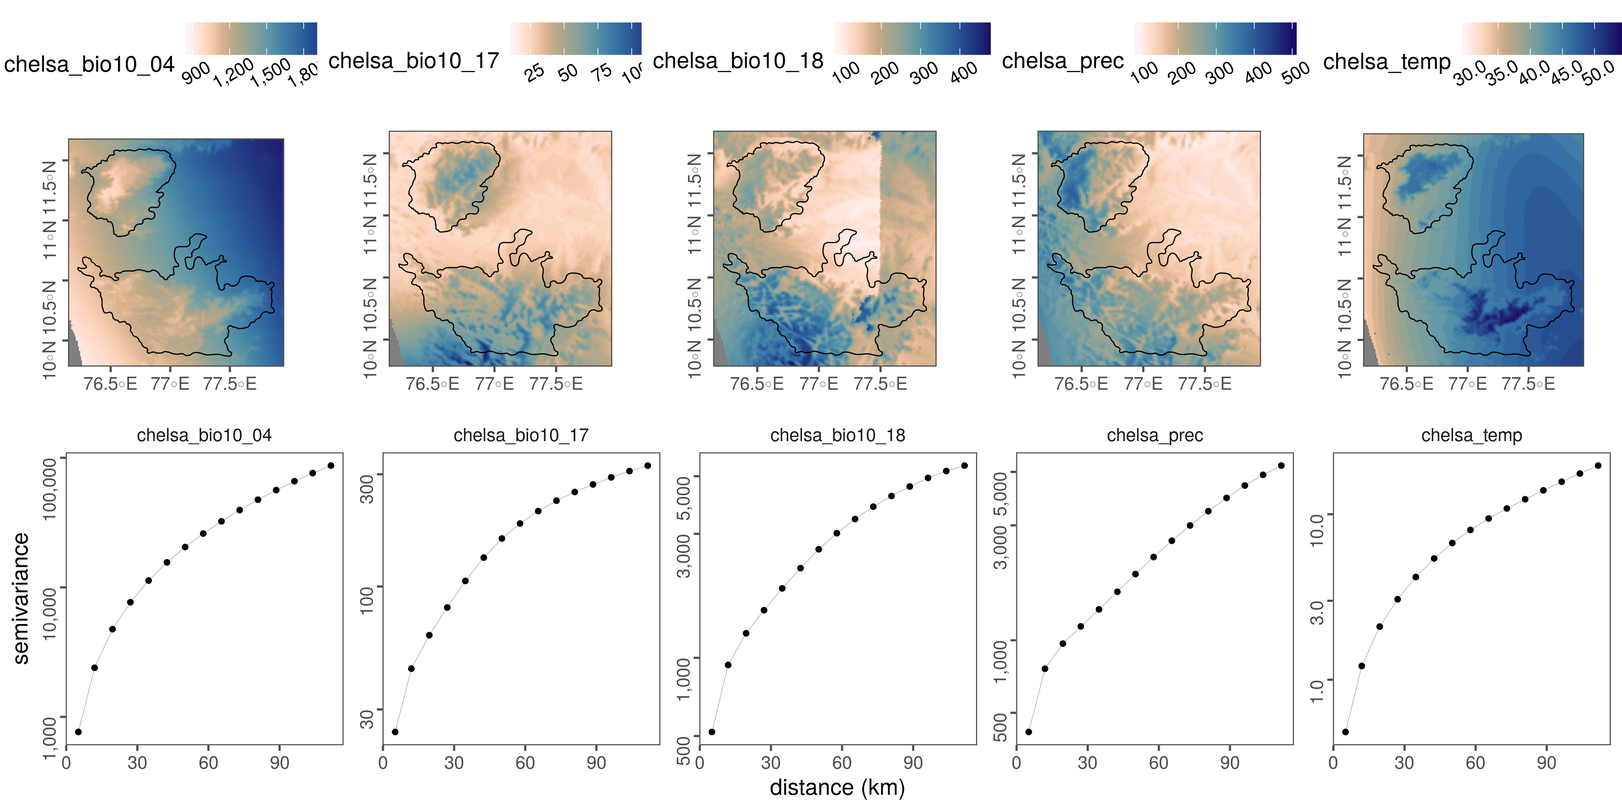
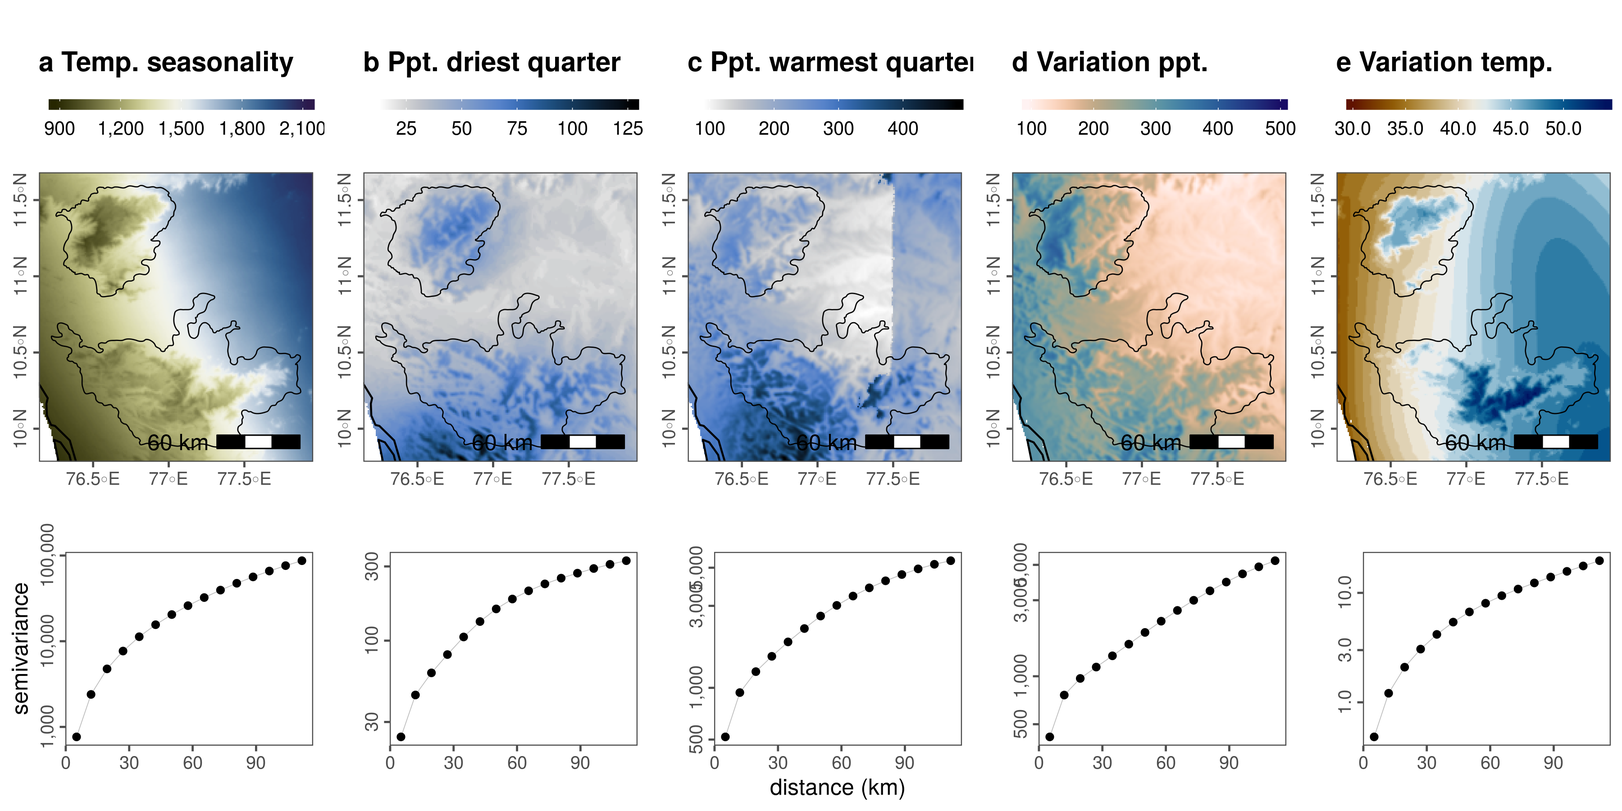
latest bookdown

diff --git a/docs/supplementary-material.html b/docs/supplementary-material.html
@@ -894,21 +894,22 @@ code span.wa { color: #60a0b0; font-weight: bold; font-style: italic; } /* Warni
 <a class="sourceLine" id="cb87-13" title="13"><span class="kw">library</span>(scico)</a>
 <a class="sourceLine" id="cb87-14" title="14"><span class="kw">library</span>(gridExtra)</a>
 <a class="sourceLine" id="cb87-15" title="15"><span class="kw">library</span>(cowplot)</a>
-<a class="sourceLine" id="cb87-16" title="16"></a>
-<a class="sourceLine" id="cb87-17" title="17"><span class="co">#&#39;make custom functiont to convert matrix to df</span></a>
-<a class="sourceLine" id="cb87-18" title="18">raster_to_df &lt;-<span class="st"> </span><span class="cf">function</span>(inp) {</a>
-<a class="sourceLine" id="cb87-19" title="19">  </a>
-<a class="sourceLine" id="cb87-20" title="20">  <span class="co"># assert is a raster obj</span></a>
-<a class="sourceLine" id="cb87-21" title="21">  assertthat<span class="op">::</span><span class="kw">assert_that</span>(<span class="st">&quot;RasterLayer&quot;</span> <span class="op">%in%</span><span class="st"> </span><span class="kw">class</span>(inp),</a>
-<a class="sourceLine" id="cb87-22" title="22">                          <span class="dt">msg =</span> <span class="st">&quot;input is not a raster&quot;</span>)</a>
-<a class="sourceLine" id="cb87-23" title="23">  </a>
-<a class="sourceLine" id="cb87-24" title="24">  coords &lt;-<span class="st"> </span><span class="kw">coordinates</span>(inp)</a>
-<a class="sourceLine" id="cb87-25" title="25">  vals &lt;-<span class="st"> </span><span class="kw">getValues</span>(inp)</a>
-<a class="sourceLine" id="cb87-26" title="26">  </a>
-<a class="sourceLine" id="cb87-27" title="27">  data &lt;-<span class="st"> </span><span class="kw">tibble</span>(<span class="dt">x =</span> coords[,<span class="dv">1</span>], <span class="dt">y =</span> coords[,<span class="dv">2</span>], <span class="dt">value =</span> vals)</a>
-<a class="sourceLine" id="cb87-28" title="28">  </a>
-<a class="sourceLine" id="cb87-29" title="29">  <span class="kw">return</span>(data)</a>
-<a class="sourceLine" id="cb87-30" title="30">}</a></code></pre></div>
+<a class="sourceLine" id="cb87-16" title="16"><span class="kw">library</span>(ggspatial)</a>
+<a class="sourceLine" id="cb87-17" title="17"></a>
+<a class="sourceLine" id="cb87-18" title="18"><span class="co">#&#39;make custom functiont to convert matrix to df</span></a>
+<a class="sourceLine" id="cb87-19" title="19">raster_to_df &lt;-<span class="st"> </span><span class="cf">function</span>(inp) {</a>
+<a class="sourceLine" id="cb87-20" title="20">  </a>
+<a class="sourceLine" id="cb87-21" title="21">  <span class="co"># assert is a raster obj</span></a>
+<a class="sourceLine" id="cb87-22" title="22">  assertthat<span class="op">::</span><span class="kw">assert_that</span>(<span class="st">&quot;RasterLayer&quot;</span> <span class="op">%in%</span><span class="st"> </span><span class="kw">class</span>(inp),</a>
+<a class="sourceLine" id="cb87-23" title="23">                          <span class="dt">msg =</span> <span class="st">&quot;input is not a raster&quot;</span>)</a>
+<a class="sourceLine" id="cb87-24" title="24">  </a>
+<a class="sourceLine" id="cb87-25" title="25">  coords &lt;-<span class="st"> </span><span class="kw">coordinates</span>(inp)</a>
+<a class="sourceLine" id="cb87-26" title="26">  vals &lt;-<span class="st"> </span><span class="kw">getValues</span>(inp)</a>
+<a class="sourceLine" id="cb87-27" title="27">  </a>
+<a class="sourceLine" id="cb87-28" title="28">  data &lt;-<span class="st"> </span><span class="kw">tibble</span>(<span class="dt">x =</span> coords[,<span class="dv">1</span>], <span class="dt">y =</span> coords[,<span class="dv">2</span>], <span class="dt">value =</span> vals)</a>
+<a class="sourceLine" id="cb87-29" title="29">  </a>
+<a class="sourceLine" id="cb87-30" title="30">  <span class="kw">return</span>(data)</a>
+<a class="sourceLine" id="cb87-31" title="31">}</a></code></pre></div>
 <div class="sourceCode" id="cb88"><pre class="sourceCode r"><code class="sourceCode r"><a class="sourceLine" id="cb88-1" title="1"><span class="co"># list landscape covariate stacks</span></a>
 <a class="sourceLine" id="cb88-2" title="2">landscape_files &lt;-<span class="st"> &quot;data/spatial/landscape_resamp01km.tif&quot;</span></a>
 <a class="sourceLine" id="cb88-3" title="3">landscape_data &lt;-<span class="st"> </span><span class="kw">stack</span>(landscape_files)</a>
@@ -941,8 +942,7 @@ code span.wa { color: #60a0b0; font-weight: bold; font-style: italic; } /* Warni
 <a class="sourceLine" id="cb89-13" title="13">  df <span class="op">%&gt;%</span><span class="st"> </span><span class="kw">select</span>(dist, gamma)</a>
 <a class="sourceLine" id="cb89-14" title="14">})</a>
 <a class="sourceLine" id="cb89-15" title="15">vgrams &lt;-<span class="st"> </span><span class="kw">tibble</span>(<span class="dt">variable =</span> chelsa_names,</a>
-<a class="sourceLine" id="cb89-16" title="16">                 <span class="dt">data =</span> vgrams)</a>
-<a class="sourceLine" id="cb89-17" title="17">vgrams &lt;-<span class="st"> </span><span class="kw">unnest</span>(vgrams, <span class="dt">col =</span> <span class="st">&quot;data&quot;</span>)</a></code></pre></div>
+<a class="sourceLine" id="cb89-16" title="16">                 <span class="dt">data =</span> vgrams)</a></code></pre></div>
 <div class="sourceCode" id="cb90"><pre class="sourceCode r"><code class="sourceCode r"><a class="sourceLine" id="cb90-1" title="1">wg &lt;-<span class="st"> </span><span class="kw">st_read</span>(<span class="st">&quot;data/spatial/hillsShapefile/Nil_Ana_Pal.shp&quot;</span>) <span class="op">%&gt;%</span><span class="st"> </span></a>
 <a class="sourceLine" id="cb90-2" title="2"><span class="st">  </span><span class="kw">st_transform</span>(<span class="dv">32643</span>)</a>
 <a class="sourceLine" id="cb90-3" title="3">bbox &lt;-<span class="st"> </span><span class="kw">st_bbox</span>(wg)</a>
@@ -959,42 +959,63 @@ code span.wa { color: #60a0b0; font-weight: bold; font-style: italic; } /* Warni
 <div id="plot-chelsa-data-and-variograms" class="section level3">
 <h3><span class="header-section-number">7.7.3</span> Plot CHELSA data and variograms</h3>
 <div class="sourceCode" id="cb91"><pre class="sourceCode r"><code class="sourceCode r"><a class="sourceLine" id="cb91-1" title="1"><span class="co"># make ggplot of variograms</span></a>
-<a class="sourceLine" id="cb91-2" title="2">fig_vgrams &lt;-<span class="st"> </span><span class="kw">ggplot</span>(vgrams)<span class="op">+</span></a>
-<a class="sourceLine" id="cb91-3" title="3"><span class="st">  </span><span class="kw">geom_line</span>(<span class="kw">aes</span>(<span class="dt">x =</span> dist<span class="op">/</span><span class="dv">1000</span>, <span class="dt">y =</span> gamma), <span class="dt">size =</span> <span class="fl">0.2</span>, <span class="dt">col =</span> <span class="st">&quot;grey&quot;</span>)<span class="op">+</span></a>
-<a class="sourceLine" id="cb91-4" title="4"><span class="st">  </span><span class="kw">geom_point</span>(<span class="kw">aes</span>(<span class="dt">x =</span> dist<span class="op">/</span><span class="dv">1000</span>, <span class="dt">y =</span> gamma), <span class="dt">col =</span> <span class="st">&quot;black&quot;</span>, <span class="dt">size =</span> <span class="dv">1</span>)<span class="op">+</span></a>
-<a class="sourceLine" id="cb91-5" title="5"><span class="st">  </span><span class="kw">facet_wrap</span>(<span class="op">~</span>variable, <span class="dt">nrow =</span> <span class="dv">1</span>, <span class="dt">scales =</span> <span class="st">&quot;free_y&quot;</span>)<span class="op">+</span></a>
-<a class="sourceLine" id="cb91-6" title="6"><span class="st">  </span><span class="kw">scale_x_continuous</span>(<span class="dt">labels =</span> comma)<span class="op">+</span></a>
-<a class="sourceLine" id="cb91-7" title="7"><span class="st">  </span><span class="kw">scale_y_log10</span>(<span class="dt">labels =</span> comma)<span class="op">+</span></a>
-<a class="sourceLine" id="cb91-8" title="8"><span class="st">  </span><span class="kw">labs</span>(<span class="dt">x =</span> <span class="st">&quot;distance (km)&quot;</span>, <span class="dt">y =</span> <span class="st">&quot;semivariance&quot;</span>)<span class="op">+</span></a>
-<a class="sourceLine" id="cb91-9" title="9"><span class="st">  </span><span class="kw">theme_few</span>()<span class="op">+</span></a>
-<a class="sourceLine" id="cb91-10" title="10"><span class="st">  </span><span class="kw">theme</span>(<span class="dt">axis.text.y =</span> <span class="kw">element_text</span>(<span class="dt">angle =</span> <span class="dv">90</span>, <span class="dt">vjust =</span> <span class="dv">0</span>))</a>
-<a class="sourceLine" id="cb91-11" title="11">fig_vgrams &lt;-<span class="st"> </span><span class="kw">as_grob</span>(fig_vgrams)</a>
-<a class="sourceLine" id="cb91-12" title="12"></a>
-<a class="sourceLine" id="cb91-13" title="13"><span class="co"># make ggplot of chelsa data</span></a>
-<a class="sourceLine" id="cb91-14" title="14">chelsa &lt;-<span class="st"> </span><span class="kw">as.list</span>(landscape_data[[chelsa_names]]) <span class="op">%&gt;%</span><span class="st"> </span></a>
-<a class="sourceLine" id="cb91-15" title="15"><span class="st">  </span>purrr<span class="op">::</span><span class="kw">map</span>(st_as_stars)</a>
-<a class="sourceLine" id="cb91-16" title="16">fig_list_chelsa &lt;-<span class="st"> </span></a>
-<a class="sourceLine" id="cb91-17" title="17"><span class="st">  </span>purrr<span class="op">::</span><span class="kw">map</span>(chelsa, <span class="cf">function</span>(df){</a>
-<a class="sourceLine" id="cb91-18" title="18">    <span class="kw">ggplot</span>()<span class="op">+</span></a>
-<a class="sourceLine" id="cb91-19" title="19"><span class="st">      </span><span class="kw">geom_sf</span>(<span class="dt">data =</span> land, <span class="dt">fill =</span> <span class="st">&quot;grey90&quot;</span>, <span class="dt">colour =</span> <span class="ot">NA</span>)<span class="op">+</span></a>
-<a class="sourceLine" id="cb91-20" title="20"><span class="st">      </span><span class="kw">geom_stars</span>(<span class="dt">data =</span> df)<span class="op">+</span></a>
-<a class="sourceLine" id="cb91-21" title="21"><span class="st">      </span><span class="kw">geom_sf</span>(<span class="dt">data =</span> wg, <span class="dt">fill =</span> <span class="ot">NA</span>, <span class="dt">colour =</span> <span class="st">&quot;black&quot;</span>, <span class="dt">size =</span> <span class="fl">0.3</span>)<span class="op">+</span></a>
-<a class="sourceLine" id="cb91-22" title="22"><span class="st">      </span><span class="kw">scale_fill_scico</span>(<span class="dt">palette =</span> <span class="st">&quot;lapaz&quot;</span>, <span class="dt">direction =</span> <span class="dv">-1</span>, </a>
-<a class="sourceLine" id="cb91-23" title="23">                       <span class="dt">label =</span> comma)<span class="op">+</span></a>
-<a class="sourceLine" id="cb91-24" title="24"><span class="st">      </span><span class="kw">coord_sf</span>(<span class="dt">xlim =</span> bbox[<span class="kw">c</span>(<span class="st">&quot;xmin&quot;</span>, <span class="st">&quot;xmax&quot;</span>)], </a>
-<a class="sourceLine" id="cb91-25" title="25">               <span class="dt">ylim =</span> bbox[<span class="kw">c</span>(<span class="st">&quot;ymin&quot;</span>, <span class="st">&quot;ymax&quot;</span>)])<span class="op">+</span></a>
-<a class="sourceLine" id="cb91-26" title="26"><span class="st">      </span><span class="kw">theme_few</span>()<span class="op">+</span></a>
-<a class="sourceLine" id="cb91-27" title="27"><span class="st">      </span><span class="kw">theme</span>(<span class="dt">legend.position =</span> <span class="st">&quot;top&quot;</span>,</a>
-<a class="sourceLine" id="cb91-28" title="28">            <span class="dt">legend.text =</span> <span class="kw">element_text</span>(<span class="dt">angle =</span> <span class="dv">30</span>),</a>
-<a class="sourceLine" id="cb91-29" title="29">            <span class="dt">axis.title =</span> <span class="kw">element_blank</span>(),</a>
-<a class="sourceLine" id="cb91-30" title="30">            <span class="dt">axis.text.y =</span> <span class="kw">element_text</span>(<span class="dt">angle =</span> <span class="dv">90</span>),</a>
-<a class="sourceLine" id="cb91-31" title="31">            <span class="dt">panel.background =</span> <span class="kw">element_rect</span>(<span class="dt">fill =</span> <span class="st">&quot;lightblue&quot;</span>))<span class="op">+</span></a>
-<a class="sourceLine" id="cb91-32" title="32"><span class="st">      </span><span class="kw">labs</span>(<span class="dt">x=</span><span class="ot">NULL</span>, <span class="dt">y=</span><span class="ot">NULL</span>)</a>
-<a class="sourceLine" id="cb91-33" title="33">  })</a>
-<a class="sourceLine" id="cb91-34" title="34">fig_list_chelsa &lt;-<span class="st"> </span>purrr<span class="op">::</span><span class="kw">map</span>(fig_list_chelsa, as_grob)</a></code></pre></div>
-<div class="sourceCode" id="cb92"><pre class="sourceCode r"><code class="sourceCode r"><a class="sourceLine" id="cb92-1" title="1">fig_list_chelsa[[<span class="dv">6</span>]] &lt;-<span class="st"> </span>fig_vgrams</a>
-<a class="sourceLine" id="cb92-2" title="2">lmatrix &lt;-<span class="st"> </span><span class="kw">matrix</span>(<span class="kw">c</span>(<span class="kw">c</span>(<span class="dv">1</span>,<span class="dv">2</span>,<span class="dv">3</span>,<span class="dv">4</span>,<span class="dv">5</span>), <span class="kw">c</span>(<span class="dv">6</span>,<span class="dv">6</span>,<span class="dv">6</span>,<span class="dv">6</span>,<span class="dv">6</span>)), <span class="dt">nrow =</span> <span class="dv">2</span>, <span class="dt">byrow =</span> T)</a>
-<a class="sourceLine" id="cb92-3" title="3">plot_grid &lt;-<span class="st"> </span><span class="kw">grid.arrange</span>(<span class="dt">grobs =</span> fig_list_chelsa, <span class="dt">nrow =</span> <span class="dv">2</span>, <span class="dt">layout_matrix =</span> lmatrix)</a>
+<a class="sourceLine" id="cb91-2" title="2">yaxis &lt;-<span class="st"> </span><span class="kw">c</span>(<span class="st">&quot;semivariance&quot;</span>, <span class="kw">rep</span>(<span class="st">&quot;&quot;</span>, <span class="dv">4</span>))</a>
+<a class="sourceLine" id="cb91-3" title="3">xaxis &lt;-<span class="st"> </span><span class="kw">c</span>(<span class="st">&quot;&quot;</span>, <span class="st">&quot;&quot;</span>, <span class="st">&quot;distance (km)&quot;</span>, <span class="st">&quot;&quot;</span>, <span class="st">&quot;&quot;</span>)</a>
+<a class="sourceLine" id="cb91-4" title="4">fig_vgrams &lt;-<span class="st"> </span>purrr<span class="op">::</span><span class="kw">pmap</span>(<span class="kw">list</span>(vgrams<span class="op">$</span>data, yaxis, xaxis), <span class="cf">function</span>(df, ya, xa){</a>
+<a class="sourceLine" id="cb91-5" title="5">  </a>
+<a class="sourceLine" id="cb91-6" title="6">  <span class="kw">ggplot</span>(df)<span class="op">+</span></a>
+<a class="sourceLine" id="cb91-7" title="7"><span class="st">    </span><span class="kw">geom_line</span>(<span class="kw">aes</span>(<span class="dt">x =</span> dist<span class="op">/</span><span class="dv">1000</span>, <span class="dt">y =</span> gamma), <span class="dt">size =</span> <span class="fl">0.2</span>, <span class="dt">col =</span> <span class="st">&quot;grey&quot;</span>)<span class="op">+</span></a>
+<a class="sourceLine" id="cb91-8" title="8"><span class="st">    </span><span class="kw">geom_point</span>(<span class="kw">aes</span>(<span class="dt">x =</span> dist<span class="op">/</span><span class="dv">1000</span>, <span class="dt">y =</span> gamma), <span class="dt">col =</span> <span class="st">&quot;black&quot;</span>)<span class="op">+</span></a>
+<a class="sourceLine" id="cb91-9" title="9"><span class="st">    </span><span class="kw">scale_x_continuous</span>(<span class="dt">labels =</span> comma)<span class="op">+</span></a>
+<a class="sourceLine" id="cb91-10" title="10"><span class="st">    </span><span class="kw">scale_y_log10</span>(<span class="dt">labels =</span> comma)<span class="op">+</span></a>
+<a class="sourceLine" id="cb91-11" title="11"><span class="st">    </span><span class="kw">labs</span>(<span class="dt">x =</span> xa, <span class="dt">y =</span> ya)<span class="op">+</span></a>
+<a class="sourceLine" id="cb91-12" title="12"><span class="st">    </span><span class="kw">theme_few</span>()<span class="op">+</span></a>
+<a class="sourceLine" id="cb91-13" title="13"><span class="st">    </span><span class="kw">theme</span>(<span class="dt">axis.text.y =</span> <span class="kw">element_text</span>(<span class="dt">angle =</span> <span class="dv">90</span>, <span class="dt">hjust =</span> <span class="fl">0.5</span>),</a>
+<a class="sourceLine" id="cb91-14" title="14">          <span class="dt">strip.text =</span> <span class="kw">element_blank</span>())</a>
+<a class="sourceLine" id="cb91-15" title="15">  </a>
+<a class="sourceLine" id="cb91-16" title="16">})</a>
+<a class="sourceLine" id="cb91-17" title="17">fig_vgrams &lt;-<span class="st"> </span>purrr<span class="op">::</span><span class="kw">map</span>(fig_vgrams, as_grob)</a>
+<a class="sourceLine" id="cb91-18" title="18"></a>
+<a class="sourceLine" id="cb91-19" title="19"><span class="co"># make ggplot of chelsa data</span></a>
+<a class="sourceLine" id="cb91-20" title="20">chelsa &lt;-<span class="st"> </span><span class="kw">as.list</span>(landscape_data[[chelsa_names]]) <span class="op">%&gt;%</span><span class="st"> </span></a>
+<a class="sourceLine" id="cb91-21" title="21"><span class="st">  </span>purrr<span class="op">::</span><span class="kw">map</span>(st_as_stars)</a>
+<a class="sourceLine" id="cb91-22" title="22"></a>
+<a class="sourceLine" id="cb91-23" title="23"><span class="co"># colour palettes</span></a>
+<a class="sourceLine" id="cb91-24" title="24">pal &lt;-<span class="st"> </span><span class="kw">c</span>(<span class="st">&quot;broc&quot;</span>, <span class="st">&quot;oslo&quot;</span>, <span class="st">&quot;oslo&quot;</span>, <span class="st">&quot;lapaz&quot;</span>, <span class="st">&quot;vik&quot;</span>)</a>
+<a class="sourceLine" id="cb91-25" title="25">title &lt;-<span class="st"> </span><span class="kw">c</span>(<span class="st">&quot;a Temp. seasonality&quot;</span>,</a>
+<a class="sourceLine" id="cb91-26" title="26">           <span class="st">&quot;b Ppt. driest quarter&quot;</span>,</a>
+<a class="sourceLine" id="cb91-27" title="27">           <span class="st">&quot;c Ppt. warmest quarter&quot;</span>,</a>
+<a class="sourceLine" id="cb91-28" title="28">           <span class="st">&quot;d Variation ppt.&quot;</span>,</a>
+<a class="sourceLine" id="cb91-29" title="29">           <span class="st">&quot;e Variation temp.&quot;</span>)</a>
+<a class="sourceLine" id="cb91-30" title="30">fig_list_chelsa &lt;-<span class="st"> </span></a>
+<a class="sourceLine" id="cb91-31" title="31"><span class="st">  </span>purrr<span class="op">::</span><span class="kw">pmap</span>(<span class="kw">list</span>(chelsa, pal, title), </a>
+<a class="sourceLine" id="cb91-32" title="32">              <span class="cf">function</span>(df, pal, t){</a>
+<a class="sourceLine" id="cb91-33" title="33">                <span class="kw">ggplot</span>()<span class="op">+</span></a>
+<a class="sourceLine" id="cb91-34" title="34"><span class="st">                  </span><span class="kw">geom_stars</span>(<span class="dt">data =</span> df)<span class="op">+</span></a>
+<a class="sourceLine" id="cb91-35" title="35"><span class="st">                  </span><span class="kw">geom_sf</span>(<span class="dt">data =</span> land, <span class="dt">fill =</span> <span class="ot">NA</span>, <span class="dt">colour =</span> <span class="st">&quot;black&quot;</span>)<span class="op">+</span></a>
+<a class="sourceLine" id="cb91-36" title="36"><span class="st">                  </span><span class="kw">geom_sf</span>(<span class="dt">data =</span> wg, <span class="dt">fill =</span> <span class="ot">NA</span>, <span class="dt">colour =</span> <span class="st">&quot;black&quot;</span>, <span class="dt">size =</span> <span class="fl">0.3</span>)<span class="op">+</span></a>
+<a class="sourceLine" id="cb91-37" title="37"><span class="st">                  </span><span class="kw">scale_fill_scico</span>(<span class="dt">palette =</span> pal, <span class="dt">direction =</span> <span class="dv">-1</span>, </a>
+<a class="sourceLine" id="cb91-38" title="38">                                   <span class="dt">label =</span> comma, <span class="dt">na.value =</span> <span class="ot">NA</span>)<span class="op">+</span></a>
+<a class="sourceLine" id="cb91-39" title="39"><span class="st">                  </span><span class="kw">coord_sf</span>(<span class="dt">xlim =</span> bbox[<span class="kw">c</span>(<span class="st">&quot;xmin&quot;</span>, <span class="st">&quot;xmax&quot;</span>)], </a>
+<a class="sourceLine" id="cb91-40" title="40">                           <span class="dt">ylim =</span> bbox[<span class="kw">c</span>(<span class="st">&quot;ymin&quot;</span>, <span class="st">&quot;ymax&quot;</span>)])<span class="op">+</span></a>
+<a class="sourceLine" id="cb91-41" title="41"><span class="st">                  </span><span class="kw">annotation_scale</span>(<span class="dt">location =</span> <span class="st">&quot;br&quot;</span>, <span class="dt">width_hint =</span> <span class="fl">0.4</span>, <span class="dt">text_cex =</span> <span class="dv">1</span>) <span class="op">+</span></a>
+<a class="sourceLine" id="cb91-42" title="42"><span class="st">                  </span></a>
+<a class="sourceLine" id="cb91-43" title="43"><span class="st">                  </span><span class="kw">theme_few</span>()<span class="op">+</span></a>
+<a class="sourceLine" id="cb91-44" title="44"><span class="st">                  </span><span class="kw">theme</span>(<span class="dt">legend.position =</span> <span class="st">&quot;top&quot;</span>,</a>
+<a class="sourceLine" id="cb91-45" title="45">                        <span class="dt">title =</span> <span class="kw">element_text</span>(<span class="dt">face =</span> <span class="st">&quot;bold&quot;</span>),</a>
+<a class="sourceLine" id="cb91-46" title="46">                        <span class="dt">legend.key.height =</span> <span class="kw">unit</span>(<span class="fl">0.2</span>, <span class="st">&quot;cm&quot;</span>),</a>
+<a class="sourceLine" id="cb91-47" title="47">                        <span class="dt">legend.key.width =</span> <span class="kw">unit</span>(<span class="dv">1</span>, <span class="st">&quot;cm&quot;</span>),</a>
+<a class="sourceLine" id="cb91-48" title="48">                        <span class="dt">legend.text =</span> <span class="kw">element_text</span>(<span class="dt">size =</span> <span class="dv">10</span>),</a>
+<a class="sourceLine" id="cb91-49" title="49">                        <span class="dt">axis.title =</span> <span class="kw">element_blank</span>(),</a>
+<a class="sourceLine" id="cb91-50" title="50">                        <span class="dt">axis.text.y =</span> <span class="kw">element_text</span>(<span class="dt">angle =</span> <span class="dv">90</span>, <span class="dt">hjust =</span> <span class="fl">0.5</span>),</a>
+<a class="sourceLine" id="cb91-51" title="51">                        <span class="co"># panel.background = element_rect(fill = &quot;lightblue&quot;),</span></a>
+<a class="sourceLine" id="cb91-52" title="52">                        <span class="dt">legend.title =</span> <span class="kw">element_blank</span>())<span class="op">+</span></a>
+<a class="sourceLine" id="cb91-53" title="53"><span class="st">                  </span><span class="kw">labs</span>(<span class="dt">x=</span><span class="ot">NULL</span>, <span class="dt">y=</span><span class="ot">NULL</span>, <span class="dt">title =</span> t)</a>
+<a class="sourceLine" id="cb91-54" title="54">              })</a>
+<a class="sourceLine" id="cb91-55" title="55">fig_list_chelsa &lt;-<span class="st"> </span>purrr<span class="op">::</span><span class="kw">map</span>(fig_list_chelsa, as_grob)</a></code></pre></div>
+<div class="sourceCode" id="cb92"><pre class="sourceCode r"><code class="sourceCode r"><a class="sourceLine" id="cb92-1" title="1">fig_list_chelsa &lt;-<span class="st"> </span><span class="kw">append</span>(fig_list_chelsa, fig_vgrams)</a>
+<a class="sourceLine" id="cb92-2" title="2">lmatrix &lt;-<span class="st"> </span><span class="kw">matrix</span>(<span class="kw">c</span>(<span class="kw">c</span>(<span class="dv">1</span>,<span class="dv">2</span>,<span class="dv">3</span>,<span class="dv">4</span>,<span class="dv">5</span>), <span class="kw">c</span>(<span class="dv">1</span>,<span class="dv">2</span>,<span class="dv">3</span>,<span class="dv">4</span>,<span class="dv">5</span>), <span class="kw">c</span>(<span class="dv">6</span>,<span class="dv">7</span>,<span class="dv">8</span>,<span class="dv">9</span>,<span class="dv">10</span>)), <span class="dt">nrow =</span> <span class="dv">3</span>, <span class="dt">byrow =</span> T)</a>
+<a class="sourceLine" id="cb92-3" title="3">plot_grid &lt;-<span class="st"> </span><span class="kw">grid.arrange</span>(<span class="dt">grobs =</span> fig_list_chelsa, <span class="dt">layout_matrix =</span> lmatrix)</a>
 <a class="sourceLine" id="cb92-4" title="4"></a>
 <a class="sourceLine" id="cb92-5" title="5"><span class="kw">ggsave</span>(<span class="dt">plot =</span> plot_grid, <span class="dt">filename =</span> <span class="st">&quot;figs/fig_chelsa_variograms.png&quot;</span>, <span class="dt">dpi =</span> <span class="dv">300</span>, <span class="dt">width =</span> <span class="dv">12</span>, <span class="dt">height =</span> <span class="dv">6</span>)</a></code></pre></div>
 <div class="sourceCode" id="cb93"><pre class="sourceCode r"><code class="sourceCode r"><a class="sourceLine" id="cb93-1" title="1"><span class="co"># show exported image</span></a>
